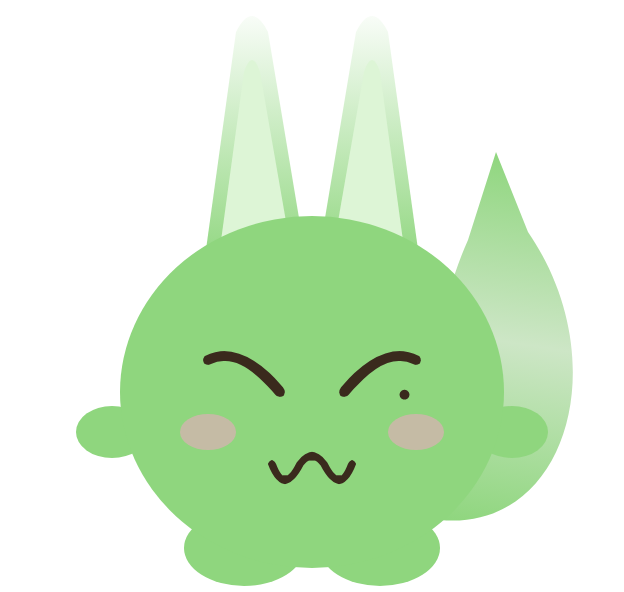
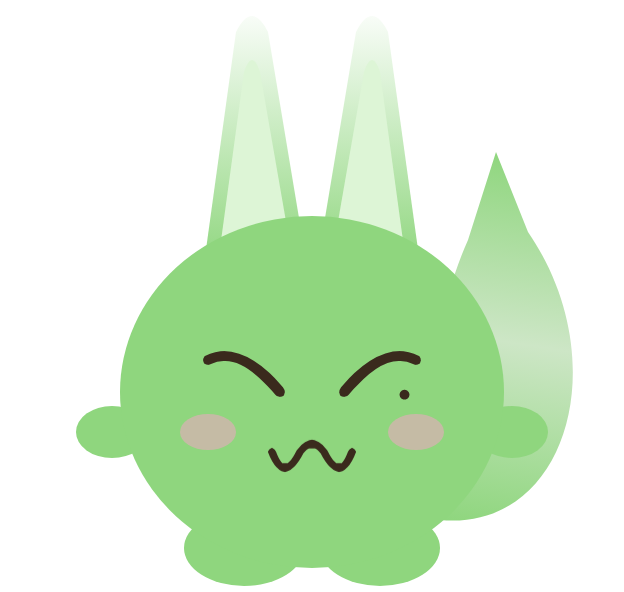
Move 玖球's mouth up a little
- Shift the mouth up in all 玖球 PNGs and home-screen icons
- Match the SVG fallback in mole-icon.js

Changed region(s): [[0.4263, 0.7297, 0.5785, 0.8209]]

diff --git a/games/mole-icon.js b/games/mole-icon.js
@@ -37,7 +37,7 @@ function moleSvgMarkup(idSuffix, furColor) {
   '<path d="M52,66 Q42,54 34,58" fill="none" stroke="var(--ink)" stroke-width="2.5" stroke-linecap="round"/>' +
   '<path d="M68,66 Q78,54 86,58" fill="none" stroke="var(--ink)" stroke-width="2.5" stroke-linecap="round"/>' +
   '<circle cx="83" cy="66.5" r="1.3" fill="var(--ink)"/>' +
-  '<path d="M50,84 Q53,92 57,84 Q60,80 63,84 Q67,92 70,84" fill="none" stroke="var(--ink)" stroke-width="1.9" stroke-linecap="round" stroke-linejoin="round"/>' +
+  '<path d="M50,81 Q53,89 57,81 Q60,77 63,81 Q67,89 70,81" fill="none" stroke="var(--ink)" stroke-width="1.9" stroke-linecap="round" stroke-linejoin="round"/>' +
   '</svg>';
 }
 
